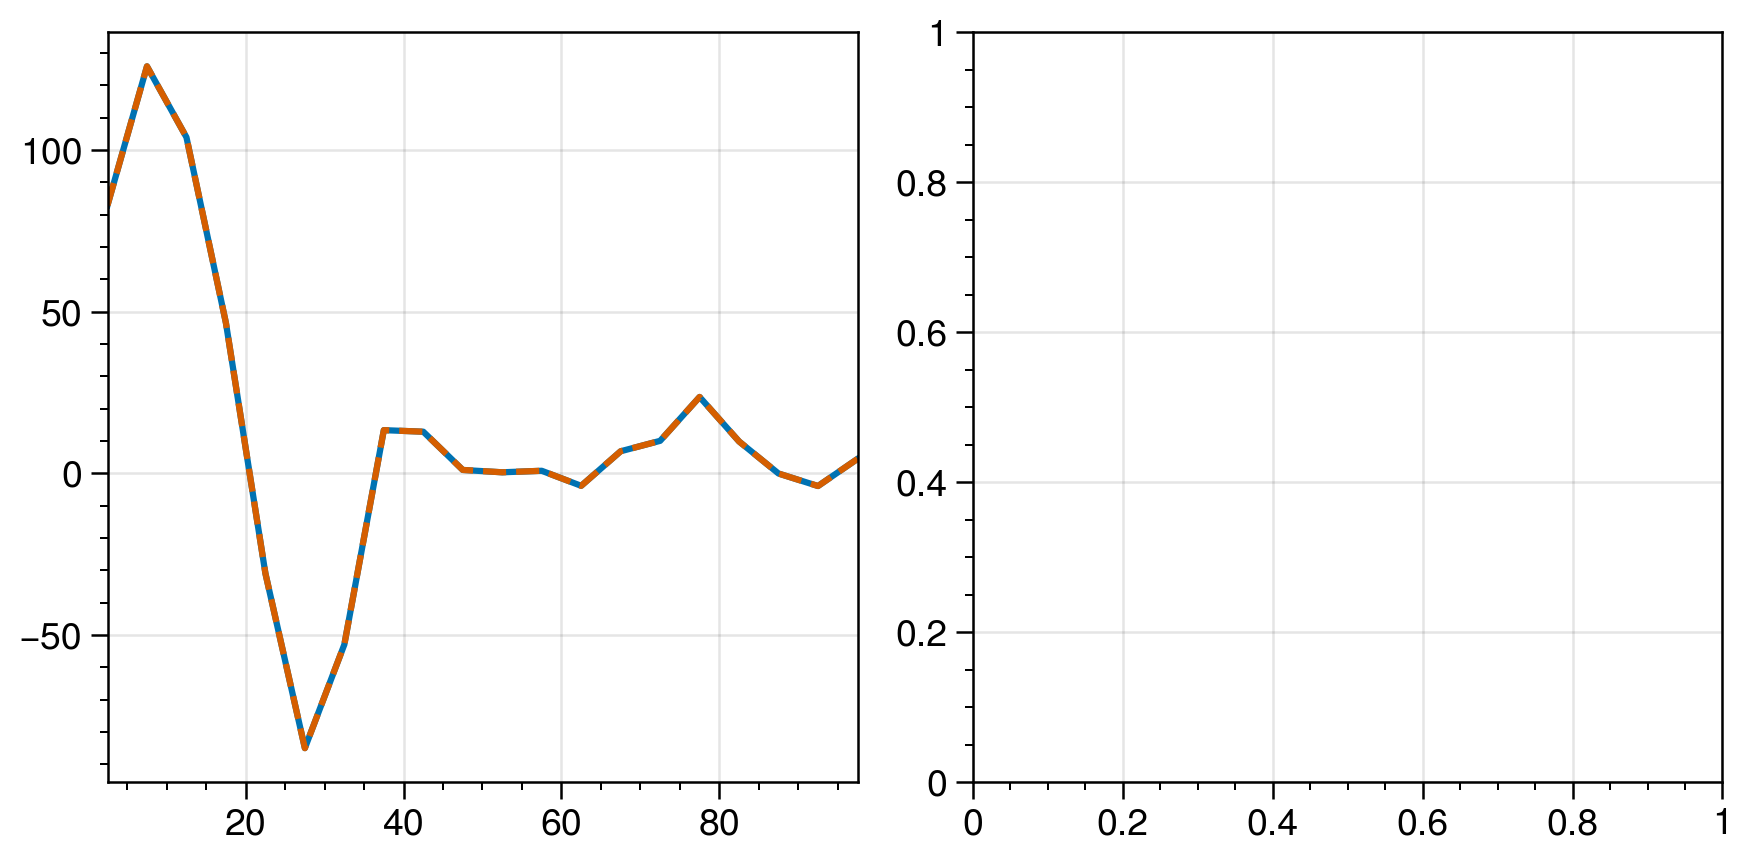
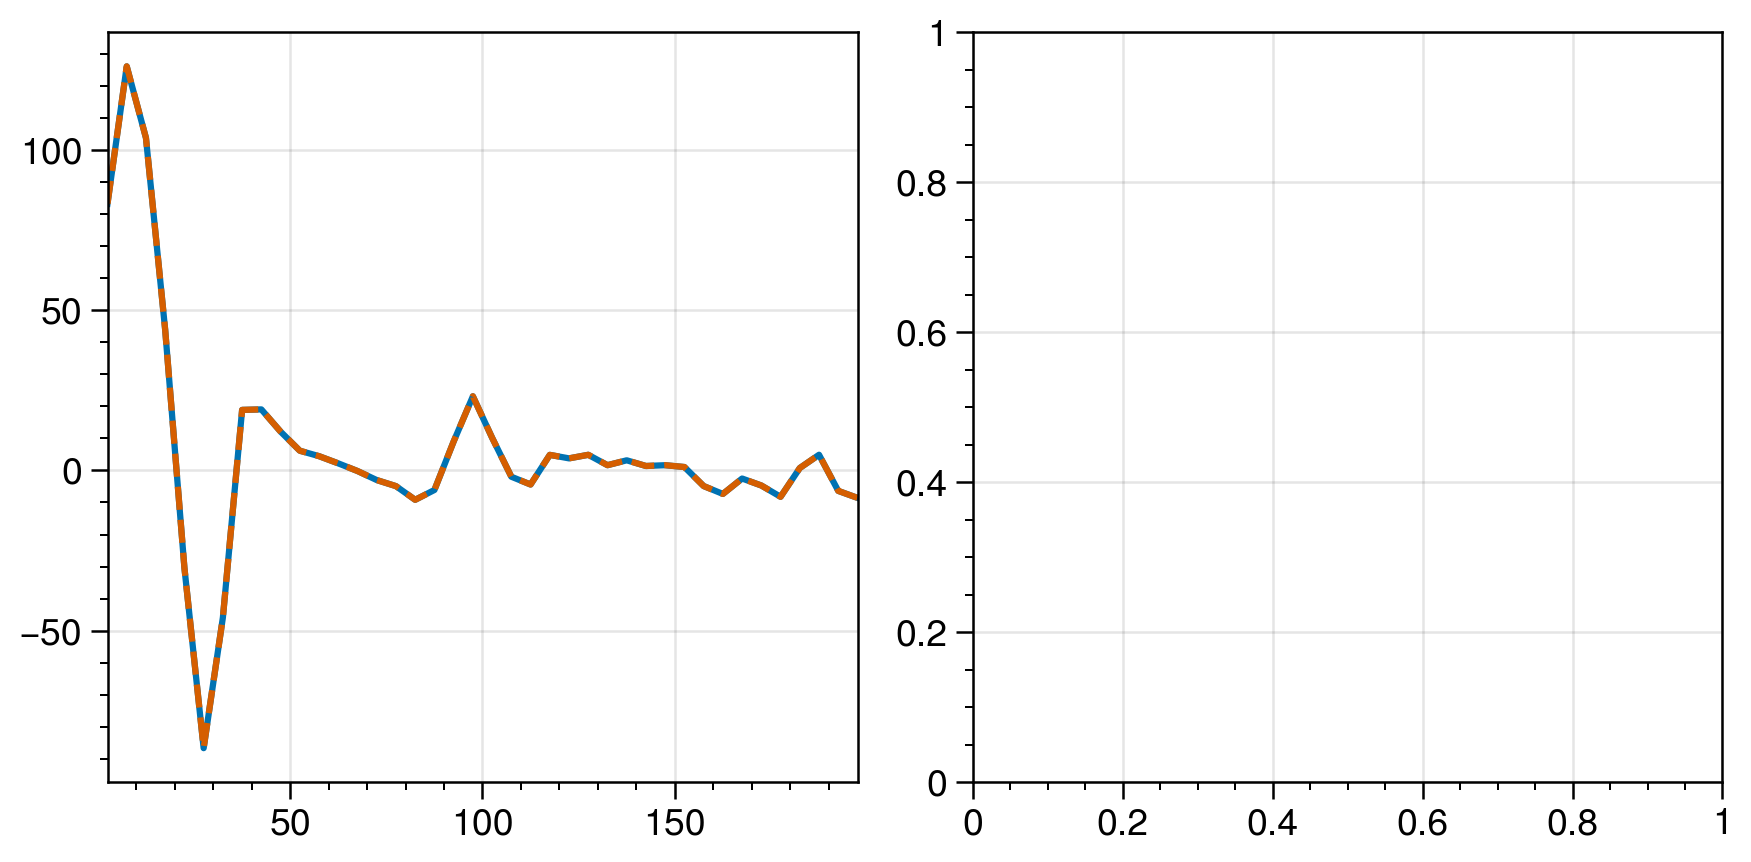
Adding new dependencies to Cosmocorr repo

diff --git a/test/test_pair_counters_cf.py b/test/test_pair_counters_cf.py
@@ -3,12 +3,12 @@ from Corrfunc.theory.DD import DD
 
 void_fn = "../data/VOID_CATALPTCICz0.466G960S1005638091.npy"
 void_data = np.load(void_fn)
-box_size = 500.
+box_size = 1000.
 mask = (void_data[:,:3] < box_size).all(axis=1) & (void_data[:,3] > 16.) & (void_data[:,3] < 50.)
 void_data = void_data[mask]
 
 
-results = DD(1, 16, np.arange(1e-4, 105., 5.), void_data[:,0], void_data[:,1], void_data[:,2], weights1=np.ones_like(void_data[:,1]),
+results = DD(1, 16, np.arange(1e-4, 205., 5.), void_data[:,0], void_data[:,1], void_data[:,2], weights1=np.ones_like(void_data[:,1]),
               weight_type='pair_product', output_ravg=True,
               boxsize=box_size, periodic=True)
 
